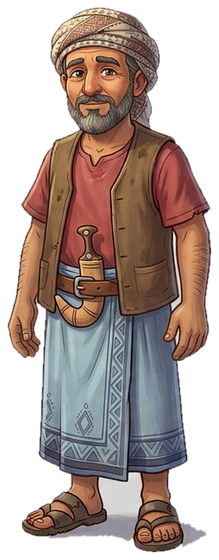
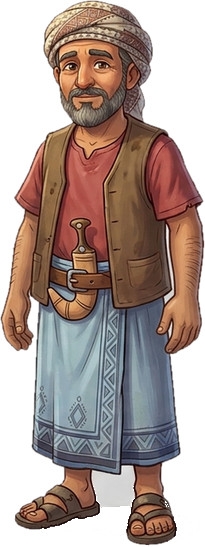
أرض متصلة بلا شبكة، مشي للشخصية، وسيارة توصيل تلقائية
أزلنا خطوط البلاط عن العشب، نص البيت، والتحديد تحت القدمين. الزراعة من التربة المشتراة فقط، والسيارة تذهب وحدها ثم تعود للموقف.

diff --git a/js/app.js b/js/app.js
@@ -129,7 +129,12 @@
   let walkTo = null, fauna = [], bits = [], clouds = [], focus = null, lastT = 0;
   const imgShayef = new Image(); imgShayef.src = "img/shayef.png";
   const imgPlayer = new Image(); imgPlayer.src = "img/player.png";
+  const imgWalk = [1, 2, 3].map((n) => { const im = new Image(); im.src = "img/walk" + n + ".png"; return im; });
   const imgHouse = new Image(); imgHouse.src = "img/house.png";
+  const truckAI = { mode: "park", path: [], i: 0 };
+  let truckFlip = 1;
+  const ROAD_OUT = [{ x: 9.4, y: 12.3 }, { x: 8.5, y: 12.2 }, { x: 8.4, y: 13.2 }, { x: 8.2, y: 14.2 }, { x: 5.5, y: 14.2 }];
+  const ROAD_BACK = ROAD_OUT.slice().reverse();
 
   function starterPlots() {
     return [
@@ -757,11 +762,8 @@
       if (d < 1.15 && d < bestD) { bestD = d; best = { type: "npc", id: n.id, x: n.x, y: n.y }; }
     });
     if (mode === "world") {
-      const tx = player.riding ? player.x : truckPos.x, ty = player.riding ? player.y : truckPos.y;
-      const dt = Math.hypot(player.x - tx, player.y - ty);
-      if (!player.riding && dt < 1.4 && dt < bestD + 0.35) best = { type: "truck" };
-      const dd = Math.hypot(player.x - DROP.x, player.y - DROP.y);
-      if (dd < 1.25 && (player.riding || state.order)) best = { type: "drop" };
+      const dt = Math.hypot(player.x - truckPos.x, player.y - truckPos.y);
+      if (truckAI.mode === "park" && dt < 1.45) best = { type: "truck" };
     }
     return best;
   }
@@ -774,43 +776,59 @@
     });
     return { n, v };
   }
-  function mountTruck(on) {
-    if (on) {
-      player.x = truckPos.x; player.y = truckPos.y; player.riding = true;
-      say(state.order ? "السيارة محملة. روح لنقطة التوصيل غرب الساحة." : "اركبنا. حمّل محصولاً من الصندوق ثم سلّم.");
-    } else {
-      player.riding = false; truckPos.x = player.x; truckPos.y = player.y;
-      say("نزلنا من السيارة.");
+  function sendOrder() {
+    if (truckAI.mode !== "park") return toast("السيارة في الطريق");
+    if (!state.order) {
+      const { n, v } = cargoValue();
+      if (!n) return toast("ما عندك محصول. احصد ثم أرسل.");
+      state.order = { n, v, items: { ...state.items } };
+      state.items = {};
     }
+    truckAI.mode = "go"; truckAI.path = ROAD_OUT; truckAI.i = 0;
+    sfx("coin"); rumble(10);
+    say("السيارة طلعت توصّل الطلب وحدها، وترجع لموقفها.");
+    renderPanel(); save();
   }
-  function loadTruck() {
-    const { n, v } = cargoValue();
-    if (!n) { toast("ما عندك محصول. احصد أولاً."); return; }
-    state.order = { n, v, items: { ...state.items } };
-    state.items = {};
-    player.riding = true;
-    player.x = truckPos.x; player.y = truckPos.y;
-    sfx("coin"); rumble(12);
-    say("حمّلنا " + n + " صندوق. وصلّه عند اللافتة.");
-    save();
-  }
-  function deliverOrder() {
-    if (!state.order) { toast("السيارة فاضية"); return; }
+  function completeDelivery() {
+    if (!state.order) return;
     const pay = state.order.v + Math.round(state.order.v * 0.35) + 8;
     addCoins(pay); addXp(8);
     state.stats.sold += state.order.n;
     state.stats.delivered = (state.stats.delivered || 0) + 1;
-    flyEmoji("🚚"); sfx("level"); rumble(18);
-    toast("توصيل +" + pay + "🪙");
-    state.order = null; player.riding = false;
-    truckPos.x = DROP.x + 0.8; truckPos.y = DROP.y;
+    flyEmoji("🚚"); sfx("level"); rumble(16);
+    toast("تم التوصيل +" + pay + "🪙");
+    state.order = null;
     save(); checkProgress();
   }
-  function actionOf(f) {
-    if (player.riding) {
-      if (f && f.type === "drop" && state.order) return { ico: "📦", lab: "سلّم", ready: true, run: deliverOrder };
-      return { ico: "🚪", lab: "انزل", ready: true, run: () => mountTruck(false) };
+  function updateTruck(dt) {
+    if (truckAI.mode === "park") {
+      truckPos.x += (TRUCK.x - truckPos.x) * Math.min(1, dt * 4);
+      truckPos.y += (TRUCK.y - truckPos.y) * Math.min(1, dt * 4);
+      return;
     }
+    const path = truckAI.path;
+    if (!path.length) { truckAI.mode = "park"; return; }
+    if (truckAI.i >= path.length) {
+      if (truckAI.mode === "go") {
+        completeDelivery();
+        truckAI.mode = "back"; truckAI.path = ROAD_BACK; truckAI.i = 0;
+      } else {
+        truckAI.mode = "park";
+        truckPos.x = TRUCK.x; truckPos.y = TRUCK.y;
+        say("السيارة رجعت للموقف.");
+      }
+      return;
+    }
+    const tgt = path[truckAI.i];
+    const dx = tgt.x - truckPos.x, dy = tgt.y - truckPos.y, d = Math.hypot(dx, dy);
+    if (d < 0.12) { truckAI.i++; return; }
+    const spd = 4.2;
+    truckPos.x += (dx / d) * spd * dt;
+    truckPos.y += (dy / d) * spd * dt;
+    if (dx < -0.02) truckFlip = 1; else if (dx > 0.02) truckFlip = -1;
+    if (Math.random() < 0.5) bits.push({ x: truckPos.x, y: truckPos.y, vx: 0, vy: 0, life: 0.35, color: "rgba(80,80,80,.3)", dust: 1 });
+  }
+  function actionOf(f) {
     if (!f) return { ico: "🚶", lab: "امشِ", ready: false, run: null };
     if (f.type === "plot") {
       const p = state.plots[f.i];
@@ -849,13 +867,10 @@
     if (f.type === "table") return { ico: "🍵", lab: "شاي", ready: true, run: () => say("شايف يشرب شاي بالنعناع.") };
     if (f.type === "sofa") return { ico: "🛋", lab: "اقعد", ready: true, run: () => say("جلسة مريحة بعد الحراثة.") };
     if (f.type === "truck") {
+      if (truckAI.mode !== "park") return { ico: "🚚", lab: "في الطريق", ready: false, run: null };
       const { n } = cargoValue();
-      if (n && !state.order) return { ico: "📦", lab: "حمّل", ready: true, run: loadTruck };
-      return { ico: "🚚", lab: "اركب", ready: true, run: () => mountTruck(true) };
-    }
-    if (f.type === "drop") {
-      if (state.order) return { ico: "📦", lab: "سلّم", ready: true, run: deliverOrder };
-      return { ico: "🪧", lab: "توصيل", ready: false, run: () => toast("حمّل الطلب في السيارة أولاً") };
+      if (n || state.order) return { ico: "🚚", lab: "أرسل الطلب", ready: true, run: sendOrder };
+      return { ico: "🚚", lab: "السيارة", ready: false, run: () => toast("اجمع محصولاً ثم أرسل الطلب") };
     }
     if (f.type === "animal") {
       const a = ANIMALS[f.id], st = state.animals[f.id];
@@ -892,10 +907,9 @@
   }
   function doAction() { const a = actionOf(focus); if (player.busy > 0) return; if (a.run) { sfx("click"); a.run(); } else sfx("error"); }
   function toggleHouse() {
-    if (player.riding) mountTruck(false);
     if (mode === "world") {
       worldPos.x = player.x; worldPos.y = player.y;
-      mode = "house"; player.x = 4.8; player.y = 5.4; player.state = "idle"; player.riding = false;
+      mode = "house"; player.x = 4.8; player.y = 5.4; player.state = "idle";
       say("بيت شايف. الصندوق للبيع، الخزانة للبذور، الطاولة للشاي.");
     } else {
       mode = "world"; player.x = worldPos.x; player.y = worldPos.y + 0.4;
@@ -947,13 +961,13 @@
       player.moving = Math.hypot(mx, my) > 0.05;
       player.state = player.moving ? "walk" : "idle";
       if (player.moving) {
-        const spd = player.riding ? 5.4 : 3.15, nx = player.x + mx * spd * dt, ny = player.y + my * spd * dt;
+        const spd = 3.2, nx = player.x + mx * spd * dt, ny = player.y + my * spd * dt;
         if (canPlace(nx, player.y)) player.x = nx;
         if (canPlace(player.x, ny)) player.y = ny;
-        if (player.riding) { truckPos.x = player.x; truckPos.y = player.y; }
-        if (Math.random() < (player.riding ? 0.45 : 0.3)) bits.push({ x: player.x, y: player.y, vx: 0, vy: 0, life: 0.3, color: player.riding ? "rgba(80,80,80,.35)" : "rgba(90,60,30,.3)", dust: 1 });
+        if (Math.random() < 0.28) bits.push({ x: player.x, y: player.y, vx: 0, vy: 0, life: 0.28, color: "rgba(70,110,40,.22)", dust: 1 });
       }
     }
+    updateTruck(dt);
     if (state.tutorial === 2 && mode === "world") {
       const d = Math.hypot(player.x - (PLOTX + 0.5), player.y - (PLOTY + 0.5));
       if (d < 1.9) setTutorial(3);
@@ -1010,12 +1024,20 @@
     }
   }
   function grassPalette(x, y) {
-    const h = hash(x + "p" + y) % 5;
-    if (h === 0) return ["#7ed957", "#4caf50", "#2e7d32"];
-    if (h === 1) return ["#8be06a", "#66bb6a", "#388e3c"];
-    if (h === 2) return ["#6bcf4a", "#43a047", "#2e7d32"];
-    if (h === 3) return ["#9ad95c", "#7cb342", "#558b2f"];
-    return ["#62d26a", "#43a047", "#1b5e20"];
+    const n = (hash(x + "p" + y) % 9) - 4;
+    const top = shade("#68cc58", n);
+    return [top, top, top];
+  }
+  function drawIsoTop(c, sx, sy, fill, sc = 1.18) {
+    const hw = (TW / 2) * sc, hh = (TH / 2) * sc;
+    c.beginPath();
+    c.moveTo(sx, sy - hh);
+    c.lineTo(sx + hw, sy);
+    c.lineTo(sx, sy + hh);
+    c.lineTo(sx - hw, sy);
+    c.closePath();
+    c.fillStyle = fill;
+    c.fill();
   }
   function drawPinkBloom(c, x, y, s, seed) {
     const cols = ["#f8bbd0", "#f48fb1", "#f06292", "#ec407a", "#ffcdd2"];
@@ -1128,23 +1150,22 @@
       }
       if (cell.t === "forest" || cell.t === "rock" || cell.t === "bush" || cell.t === "wild") {
         const pal = grassPalette(x + 3, y + 1);
-        drawBlock(c, p.x, p.y, shade(pal[0], -18), shade(pal[1], -12), shade(pal[2], -8));
+        drawIsoTop(c, p.x, p.y, shade("#5db84c", -6));
         drawTufts(c, p, x, y, t);
       } else if (cell.t === "path") {
-        drawBlock(c, p.x, p.y, "#d7c48a", "#b89a5c", "#8d6e3a");
+        drawIsoTop(c, p.x, p.y, shade("#cbb07a", (hash(x + "r" + y) % 7) - 3), 1.2);
         const ph = hash(x + "s" + y);
-        if (ph % 3 === 0) { c.fillStyle = "#c4a574"; c.beginPath(); c.ellipse(p.x + (ph % 7) - 3, p.y + 2, 3.2, 1.6, 0.2, 0, 7); c.fill(); }
+        if (ph % 3 === 0) { c.fillStyle = "rgba(160,130,80,.35)"; c.beginPath(); c.ellipse(p.x + (ph % 7) - 3, p.y + 2, 4.2, 1.8, 0.2, 0, 7); c.fill(); }
       } else if (cell.t === "plot") {
         const pl = state.plots[cell.plot];
         drawBlock(c, p.x, p.y, isReady(pl) ? "#a97843" : "#5d4037", "#4e342e", "#3e2723");
       } else if (cell.t === "site") drawBlock(c, p.x, p.y, "#ffe082", "#ffca28", "#f9a825");
       else if (cell.t === "house") {
-        const pal = grassPalette(x + 1, y);
-        drawBlock(c, p.x, p.y, shade(pal[0], -14), shade(pal[1], -10), shade(pal[2], -8));
+        drawIsoTop(c, p.x, p.y, shade("#5db84c", -8));
         drawTufts(c, p, x, y, t);
       } else {
         const pal = grassPalette(x, y);
-        drawBlock(c, p.x, p.y, pal[0], pal[1], pal[2]);
+        drawIsoTop(c, p.x, p.y, pal[0]);
         drawTufts(c, p, x, y, t);
         if (cell.clover) {
           c.fillStyle = "#2e7d32";
@@ -1161,8 +1182,8 @@
           drawPinkBloom(c, p.x + 6, p.y - 2, 2.2, x * 3 + y);
         }
       }
-      if (focus && ((focus.type === "plot" && cell.plot === focus.i) || (focus.type === "place" && focus.x === x && focus.y === y) || ((focus.type === "forest" || focus.type === "rock" || focus.type === "bush" || focus.type === "wild") && focus.x === x && focus.y === y))) {
-        c.strokeStyle = "#ffe566"; c.lineWidth = 2.5;
+      if (focus && (focus.type === "plot" && cell.plot === focus.i || ((focus.type === "forest" || focus.type === "rock" || focus.type === "bush" || focus.type === "wild") && focus.x === x && focus.y === y))) {
+        c.strokeStyle = "rgba(255, 236, 150, 0.7)"; c.lineWidth = 2;
         c.beginPath(); c.moveTo(p.x, p.y - TH / 2); c.lineTo(p.x + TW / 2, p.y); c.lineTo(p.x, p.y + TH / 2); c.lineTo(p.x - TW / 2, p.y); c.closePath(); c.stroke();
       }
     }
@@ -1185,11 +1206,10 @@
       c.fillStyle = "#8d6e63"; c.fillRect(p.x - 14, p.y - 28, 28, 5);
     }});
     sprites.push({ z: DROP.x + DROP.y, draw: () => drawDrop(c) });
-    const tzx = player.riding ? player.x : truckPos.x, tzy = player.riding ? player.y : truckPos.y;
-    sprites.push({ z: tzx + tzy + 0.35, draw: () => drawTruck(c, tzx, tzy, t) });
+    sprites.push({ z: truckPos.x + truckPos.y + 0.35, draw: () => drawTruck(c, truckPos.x, truckPos.y, t) });
     fauna.forEach((f) => sprites.push({ z: f.x + f.y + (f.z || 0) / 90, draw: () => drawFauna(c, f, t) }));
     NPCS.forEach((n) => { if (isOpen(n.x, n.y)) sprites.push({ z: n.x + n.y + 0.3, draw: () => drawNpc(c, n, t) }); });
-    if (!player.riding) sprites.push({ z: player.x + player.y + 0.4, draw: () => drawShayef(c, t) });
+    sprites.push({ z: player.x + player.y + 0.4, draw: () => drawShayef(c, t) });
     bits.forEach((b) => sprites.push({ z: b.x + b.y + 1, draw: () => {
       const p = toScreen(b.x, b.y); c.globalAlpha = Math.max(0, b.life);
       c.fillStyle = b.color; c.beginPath(); c.arc(p.x, p.y - (b.dust ? 0 : 16), b.dust ? 2.5 : 3.2, 0, 7); c.fill(); c.globalAlpha = 1;
@@ -1305,7 +1325,6 @@
       c.arc(door.x + 18, door.y - 58, 4.5 + Math.sin(t * 3) * 1.1, 0, 7);
       c.fill();
     }
-    label(c, "بيت شايف", door.x, door.y - 108);
   }
   function drawSite(c, s) {
     const p = toScreen(s.x + s.w / 2, s.y + s.h / 2);
@@ -1464,9 +1483,9 @@
   }
   function drawTruck(c, x, y, t) {
     const p = toScreen(x, y);
-    const bob = player.riding && player.moving ? Math.sin(t * 18) * 1.2 : 0;
-    c.fillStyle = "rgba(0,0,0,.25)"; c.beginPath(); c.ellipse(p.x, p.y + 8, 26, 9, 0, 0, 7); c.fill();
-    c.save(); c.translate(p.x, p.y + 2 - bob); c.scale(player.flip, 1);
+    const bob = truckAI.mode !== "park" ? Math.sin(t * 16) * 1.1 : 0;
+    c.fillStyle = "rgba(0,0,0,.22)"; c.beginPath(); c.ellipse(p.x, p.y + 8, 26, 9, 0, 0, 7); c.fill();
+    c.save(); c.translate(p.x, p.y + 2 - bob); c.scale(truckFlip, 1);
     c.fillStyle = "#1565c0";
     c.beginPath(); c.moveTo(-30, -6); c.lineTo(-30, -22); c.lineTo(-8, -22); c.lineTo(-4, -34); c.lineTo(18, -34); c.lineTo(22, -22); c.lineTo(28, -22); c.lineTo(28, -6); c.closePath(); c.fill();
     c.fillStyle = "#0d47a1"; c.fillRect(-28, -20, 18, 14);
@@ -1484,13 +1503,11 @@
     c.beginPath(); c.arc(-16, -2, 6, 0, 7); c.fill();
     c.beginPath(); c.arc(16, -2, 6, 0, 7); c.fill();
     c.fillStyle = "#9e9e9e"; c.beginPath(); c.arc(-16, -2, 2.5, 0, 7); c.fill(); c.beginPath(); c.arc(16, -2, 2.5, 0, 7); c.fill();
-    if (player.riding) {
-      c.fillStyle = "#e0b089"; c.beginPath(); c.arc(8, -38, 6, 0, 7); c.fill();
-      c.fillStyle = "#d7b56d"; c.beginPath(); c.ellipse(8, -44, 8, 3, 0, 0, 7); c.fill();
-    }
     c.restore();
-    c.font = "10px Tahoma"; c.fillStyle = "#fff8e4"; c.textAlign = "center";
-    c.fillText(state.order ? "طلب جاهز" : "سيارة شايف", p.x, p.y - 48);
+    if (truckAI.mode !== "park") {
+      c.font = "10px Tahoma"; c.fillStyle = "#fff8e4"; c.textAlign = "center";
+      c.fillText(truckAI.mode === "go" ? "توصيل…" : "عودة…", p.x, p.y - 48);
+    }
   }
   function drawCrop(c, x, y, plot, t) {
     const crop = CROPS[plot.crop.id], st = growStage(plot.crop, Date.now()), p = toScreen(x, y);
@@ -1510,30 +1527,29 @@
   function drawShayef(c, t) {
     const p = toScreen(player.x, player.y);
     const walk = player.state === "walk";
-    const ph = player.anim * (walk ? 11 : 2);
-    const bob = walk ? Math.abs(Math.sin(ph)) * 4.4 : Math.sin(t * 2.05) * 1.15;
-    const lean = walk ? Math.sin(ph) * 0.045 : 0;
-    let tool = null, toolAng = 0, arm = walk ? Math.sin(ph) * 0.7 : 0.1;
+    const ph = player.anim * (walk ? 10 : 2);
+    const bob = walk ? Math.abs(Math.sin(ph)) * 1.6 : Math.sin(t * 2.05) * 0.8;
+    let tool = null, toolAng = 0;
     if (player.state === "hoe" || player.state === "chop") {
       const k = 1 - Math.max(0, player.busy) / 0.7;
       toolAng = -1.1 + Math.sin(k * Math.PI) * 2.05;
-      arm = toolAng; tool = player.state;
+      tool = player.state;
     }
-    if (player.state === "water") { tool = "can"; arm = 0.5; }
-    if (player.state === "harvest") { tool = "pick"; }
-    c.fillStyle = "rgba(22, 42, 16, 0.32)";
-    c.beginPath();
-    c.ellipse(p.x, p.y + 7, 15, 6, 0, 0, 7);
-    c.fill();
-    const img = (imgPlayer.complete && imgPlayer.naturalWidth) ? imgPlayer : imgShayef;
+    if (player.state === "water") tool = "can";
+    if (player.state === "harvest") tool = "pick";
+    let img = imgPlayer;
+    if (walk) {
+      const seq = [imgWalk[0], imgWalk[1], imgWalk[2], imgWalk[1]];
+      const fr = seq[Math.floor(player.anim * 7) % 4];
+      if (fr && fr.complete && fr.naturalWidth) img = fr;
+    }
     c.save();
-    c.translate(p.x, p.y + 5 - bob);
-    const squash = walk ? 1 + Math.sin(ph) * 0.028 : 1;
-    c.scale(player.flip * squash, 1 / squash);
-    c.rotate(lean + (tool === "pick" ? 0.08 : 0) + ((player.state === "hoe" || player.state === "chop") ? 0.06 : 0));
-    if (img.complete && img.naturalWidth) {
-      const h = 92, w = h * (img.naturalWidth / img.naturalHeight);
-      c.drawImage(img, -w / 2, -h + 4, w, h);
+    c.translate(p.x, p.y + 2 - bob);
+    c.scale(player.flip, 1);
+    c.rotate((tool === "pick" ? 0.07 : 0) + ((tool === "hoe" || tool === "chop") ? 0.05 : 0));
+    if (img && img.complete && img.naturalWidth) {
+      const h = 90, w = h * (img.naturalWidth / img.naturalHeight);
+      c.drawImage(img, -w / 2, -h + 6, w, h);
     }
     if (tool === "hoe" || tool === "chop") {
       c.save();
@@ -1768,7 +1784,7 @@
   function renderBarn() {
     const ids = Object.keys(state.items).filter((id) => state.items[id] > 0);
     if (!ids.length) { $("#panel-body").innerHTML = `<div class="empty-state"><div class="ee">📦</div><p>الصندوق فارغ. احصد ثم عُد.</p></div>`; return; }
-    let html = `<button class="btn" data-sell-all="1" style="width:100%;margin-bottom:8px">بيع الكل</button>`;
+    let html = `<button class="btn" data-send-order="1" style="width:100%;margin-bottom:8px">🚚 أرسل الطلب بالسيارة</button><button class="btn btn-ghost" data-sell-all="1" style="width:100%;margin-bottom:8px">بيع الكل في الصندوق</button>`;
     html += ids.map((id) => { const c = catalog(id); if (!c) return ""; const q = state.items[id]; return `<div class="card"><div class="ce">${c.emoji}</div><div><h3>${c.name} ×${q}</h3><p>${sellPriceOf(id)}🪙 للحبة</p></div><div><button class="btn tiny" data-sell="${id}">بيع 1</button></div></div>`; }).join("");
     $("#panel-body").innerHTML = html;
   }
@@ -1924,6 +1940,7 @@
       if (d("[data-claim-story]")) claimStory();
       const cd = d("[data-claim-daily]"); if (cd) claimDaily(cd.dataset.claimDaily);
       if (d("[data-sell-all]")) sellAll();
+      if (d("[data-send-order]")) { sendOrder(); }
       const sl = d("[data-sell]"); if (sl) sellItem(sl.dataset.sell, 1);
       const pl = d("[data-plant]"); if (pl) { plant(+pl.dataset.plot, pl.dataset.plant); closeSheet(); }
       const ft = d("[data-fert]"); if (ft) fertilize(+ft.dataset.fert);

diff --git a/sw.js b/sw.js
@@ -1,4 +1,4 @@
-const CACHE = "shayef-v10";
+const CACHE = "shayef-v11";
 const ASSETS = [
   "./",
   "./index.html",
@@ -7,6 +7,9 @@ const ASSETS = [
   "./manifest.json",
   "./img/shayef.png",
   "./img/player.png",
+  "./img/walk1.png",
+  "./img/walk2.png",
+  "./img/walk3.png",
   "./img/house.png",
   "./img/menu-bg.jpg",
   "./img/icon-192.png",
